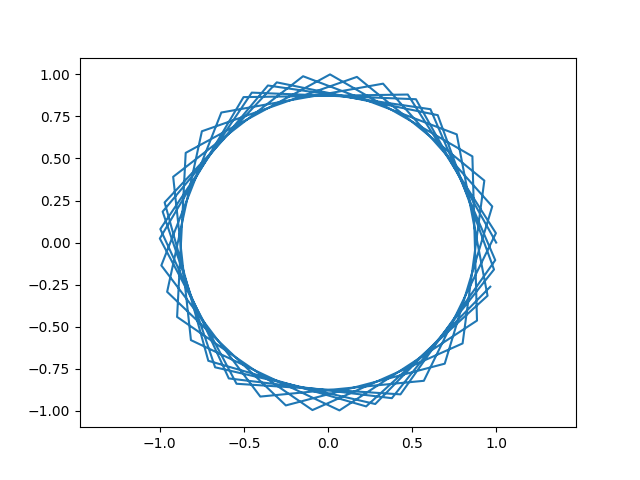
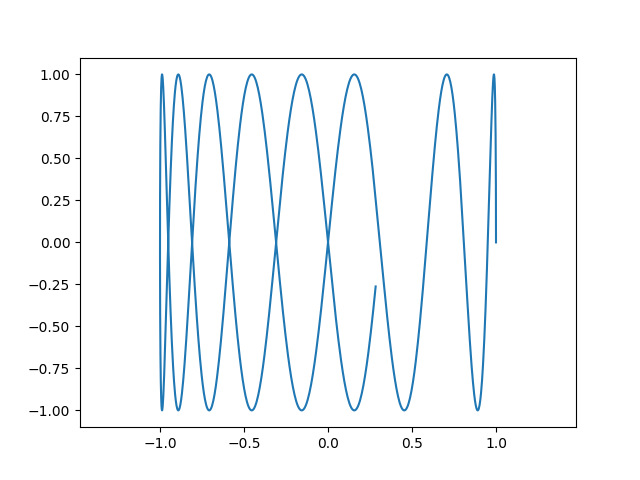
лекция

Changed region(s): [[0.25, 0.1562, 0.7812, 0.875], [0.2188, 0.9062, 0.2812, 0.9375]]

diff --git a/task4_dop.py b/task4_dop.py
@@ -1,0 +1,36 @@
+import matplotlib.pyplot as plt
+import numpy as np
+
+N = int(input())
+langs = 1
+width = 1
+def lesenk (N):
+    x = []
+    y = []
+    xstart = 0
+    ystart = 0
+    for i in range (N):
+        x.append(xstart)
+        x.append(xstart)
+        y.append(ystart)
+        y.append(ystart + width)
+        ystart = ystart + langs
+        plt.plot(x,y)
+
+        x.append(xstart) 
+        x.append(xstart + langs)
+        y.append(ystart)
+        y.append(ystart)
+        xstart = xstart + width
+        plt.plot(x,y)
+    
+
+    plt.axis('equal')
+    plt.savefig('task4_dop.png')
+
+if __name__ == "__main__":
+    lesenk(N)
+'''
+x = np.linspace(0,10,1000)
+y = x // 1
+'''

diff --git a/task2_dop.py b/task2_dop.py
@@ -1,0 +1,18 @@
+import matplotlib.pyplot as plt
+import numpy as np
+
+def spiral (a = 100, b = 50):
+    f = np.linspace(0, 10*np.pi, 500)
+    c = (a**2 - b**2)**0.5
+    e = c/a
+    p = a*(1 - e**2)
+    r = p / (1 + e*np.cos(f))
+    x = r * np.cos(f)
+    y = r * np.sin(f)
+    plt.plot(x,y)
+    plt.axis('equal')
+    plt.savefig('task2_dop.png')
+
+
+if __name__ == "__main__":
+    spiral()

diff --git a/task1_dop.py b/task1_dop.py
@@ -1,8 +1,8 @@
 import matplotlib.pyplot as plt
 import numpy as np
 
-def lissaju (bet = np.pi/2, a =1, A = 1, B = 1, b = 1):
-    t = np.linspace(0, 50, 50)
+def lissaju (bet = np.pi/2, a =0.1, A = 1, B = 1, b = 1):
+    t = np.linspace(0, 50, 1000)
     x = A * np.sin(a * t + bet)
     y = B * np.sin(b * t)
     plt.plot(x,y)

diff --git a/task3_dop.py b/task3_dop.py
@@ -1,0 +1,6 @@
+import matplotlib.pyplot as plt
+import numpy as np
+
+def func (a,b):
+    x = np.linspace(0,100,100)
+    
